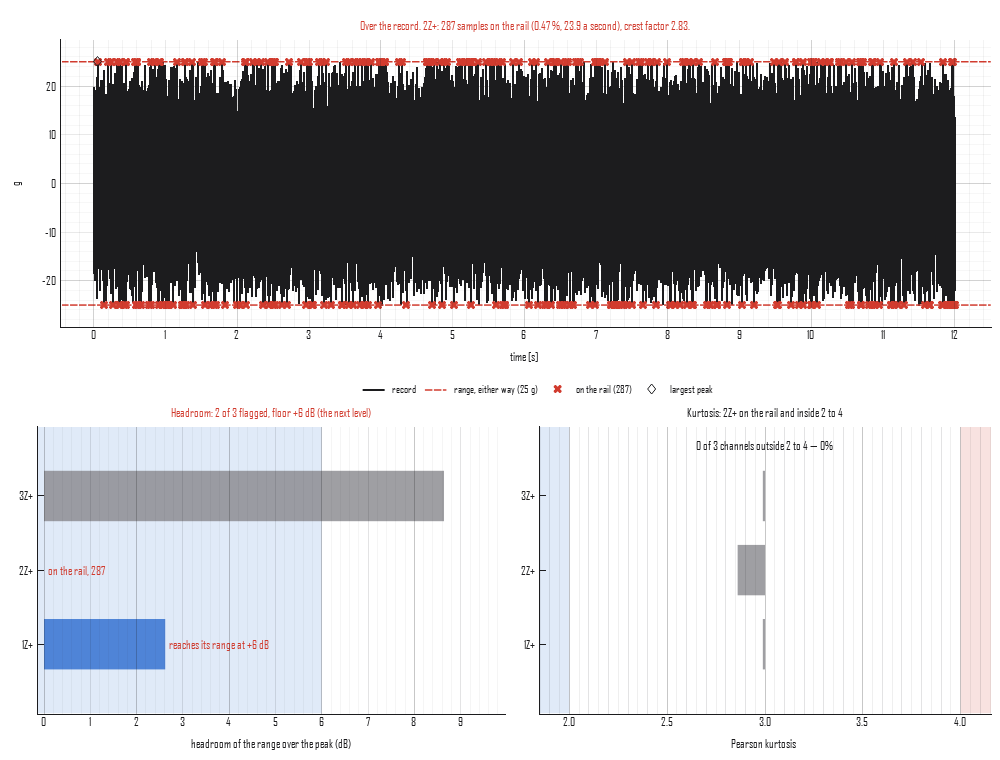
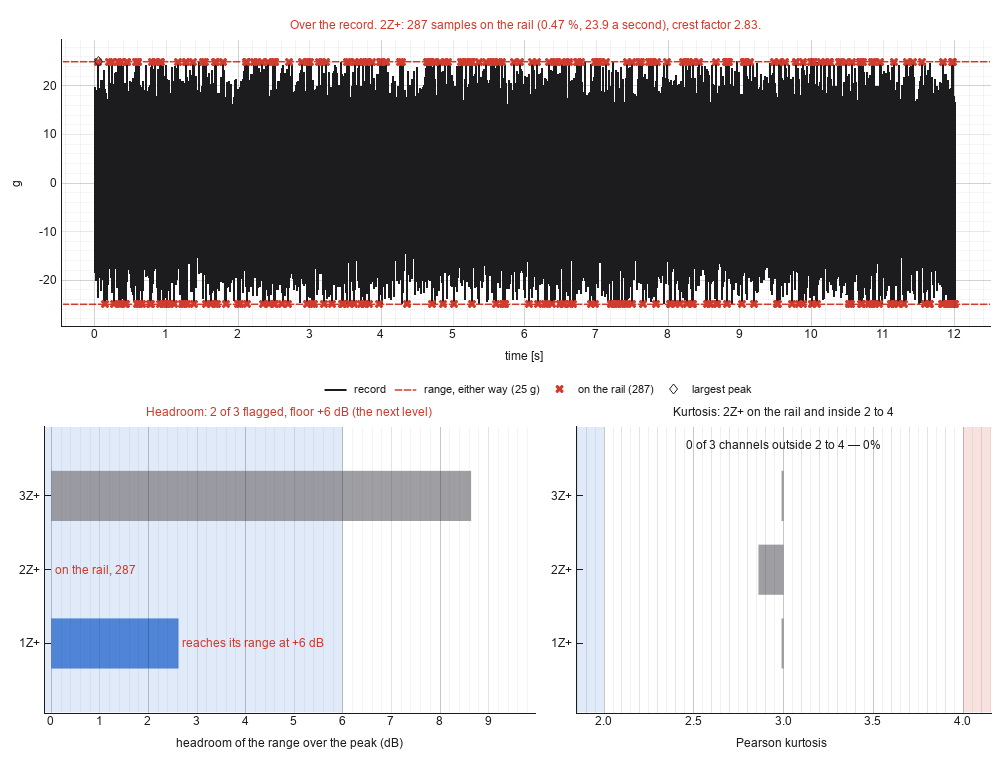
Guide: the Range column's default, and the figure redrawn

diff --git a/tools/make_concept_figures.py b/tools/make_concept_figures.py
@@ -577,7 +577,7 @@ def time_statistics():
 
 def overload():
     """Three channels against the 25 g range a channel table gives them
-    (5 V over 200 mV/g): the flat profile's twelve seconds at minus
+    (10 V over 400 mV/g): the flat profile's twelve seconds at minus
     6 dB, at full level through the range, and at minus 12 dB."""
     import numpy as np
 
@@ -605,7 +605,7 @@ def overload():
     table = ChannelTable({'channel': [1, 2, 3], 'node': [1, 2, 3],
                           'direction': ['Z+'] * 3, 'unit': ['g'] * 3,
                           'channel_type': ['acceleration'] * 3,
-                          'sensitivity': [200.0] * 3, 'range': [5] * 3})
+                          'sensitivity': [400.0] * 3, 'range': [10] * 3})
     check = history.overload_check(table)
     for channel in check.channels:
         print(channel.describe('g', g))

diff --git a/docs/guide/overload.md b/docs/guide/overload.md
@@ -29,8 +29,19 @@ table's row that names it, by its DOF and its channel type (or its DOF
 alone when the type is blank and the record has one channel there), the
 same match the roles use. A channel the table does not name, or names
 with no sensitivity, or in a unit of another quantity, has no range and
-says why; it is not judged against a guess. A range can also be given
-directly in SI, one per channel or one for all.
+says why; it is not judged against a guess. Two rows that name one
+channel give it a range only when they agree, and the check notes which
+rows; where they differ the channel has no range. A range can also be
+given directly in SI, one per channel or one for all.
+
+The Range column holds whole volts, with a default of 5 V and a minimum
+of 1 V, so a blank cell, a 0, and a fractional range such as 0.5 or
+2.5 V all read back as 5 V. A channel clipped at 2.5 g on a 0.5 V input
+over 200 mV/g is then read against 25 g, with 20 dB of headroom it does
+not have. Since 5 V is also a common setting, a channel whose row holds
+it is still read, but it is marked (`on_default`), its words say its
+range is the column's default, and the check's words count the channels
+read against it and ask for the range to be confirmed.
 
 ## What it reports
 
@@ -49,6 +60,7 @@ range makes of them.
 | `headroom_db` | the range over the largest excursion, in dB: 20 log10(range / peak). At or below 0 dB the range was reached |
 | `next_peak`, `next_headroom_db` | the largest excursion scaled up by the step to the next level (`step_db`, 6 dB by default), and the headroom left there |
 | `beyond` | samples further out than the range and its margin |
+| `on_default`, `note`, `cautions()` | whether the range came from a Range cell holding the column's default, any note on the table rows it came from, and both in words |
 | `statistics` | the channel's `TimeStatistics`, for every other number |
 
 Three things are judged, each channel for the first that applies:
@@ -79,7 +91,7 @@ next level) read the whole check.
 
 Twelve seconds of Gaussian random, flat at 0.04 g²/Hz from 20 to
 2,000 Hz and sampled at 5,120 a second, read 8.88 grms with a largest
-peak of 37 g. Three channels, each a 5 V input on a 200 mV/g chain, a
+peak of 37 g. Three channels, each a 10 V input on a 400 mV/g chain, a
 25 g range: the record at minus 6 dB, the record at full level through
 the range, and the record at minus 12 dB.
 
@@ -127,13 +139,15 @@ samples are crosses, and every flagged bar carries its finding in words.
 ## In the app
 
 *Overload* is on a time history's bar beside *Kurtosis* and
-*Statistics*, one of the readings of a record. It reads the ranges from
-the channel table linked with the record, and with none it says so and
-how to give it one. The panel names the table the ranges came from and
+*Statistics*, one of the readings of a record, once a channel table
+linked with the record names one of its channels; it reads the ranges
+from that table. The panel names the table the ranges came from and
 holds the step to the next level and the margin; under them is a row a
 channel, its headroom and its samples on the rail, with each flagged
 channel in bold, then the numbers for the channel the trace draws, and
-the judgement in words. Clicking a channel's row draws its trace.
+the judgement in words. A range taken from the column's default reads
+"the default" beside it, and its row and value say why in their tips.
+Clicking a channel's row draws its trace.
 Dragging the floor on the headroom bars moves the step. Every edit
 redraws at once, and the reading is journaled as its `plot_overload`
 call.

diff --git a/docs/guide/project-tree.md b/docs/guide/project-tree.md
@@ -100,7 +100,7 @@ colored by level; *3D* on the bar switches to the flat plot and back.
 | Geometry | The 3-D scene. The tree lists the nodes, the coordinate systems, the elements by family (Beams, Triangles, Quads, Tetras, Wedges, Hexes and Points, plus Pyramids when there are any), with the element groups of each family under it and each element group's elements under it, and the Solids. Picking a family, an element group or an element shows that part. The pencil on a family opens its elements' table, and the pencil on an element group opens the Element Groups table at its row, where its material and section are set. The *Modes* reading opens the Modes pane: *Kinematic* previews the six rigid-body shapes about a reference point, from the geometry alone, and *Finite element*, offered once the element groups have properties, solves the normal modes. |
 | Photos | Every photograph, or only the ones picked in the grid, stacked down the pane. Edit a name in the grid. |
 | Channel table | The spreadsheet, with every column typed and the drop-downs and check boxes live ([The channel table](channel-table.md)). *Specification* on its bar writes a specification at its control channels, on a sheet beside the plot. |
-| Time history | The records against time, with the averaging frames or the shock windows shaded when they are set. The readings a record offers are on the bar: *Averaging*, *Filter*, *Sine Levels* (when the project has a sine sweep specification), *Truncate*, *Kurtosis*, *Statistics*, *Overload* (each channel against the range its linked channel table gives it), *Shocks* and *Wavelet*. |
+| Time history | The records against time, with the averaging frames or the shock windows shaded when they are set. The readings a record offers are on the bar: *Averaging*, *Filter*, *Sine Levels* (when the project has a sine sweep specification), *Truncate*, *Kurtosis*, *Statistics*, *Overload* (when a linked channel table names its channels: each channel against the range the table gives it), *Shocks* and *Wavelet*. |
 | Spectrum | The curves, or the stage. |
 | PSD | The curves or the stage, as for a spectrum. An octave-band PSD is drawn as steps; *Octave Bands* on the bar previews the PSD on proportional bands and makes one. |
 | Specification | Each channel's target with its warning and abort bands, on the stage or, in the flat plot, one channel at a time chosen from the drop-down. *RMS* on the bar shows the levels as bars over a table, and *Edit* opens the sheet ([The objects](objects.md#the-data-arrays-coredata)). |
